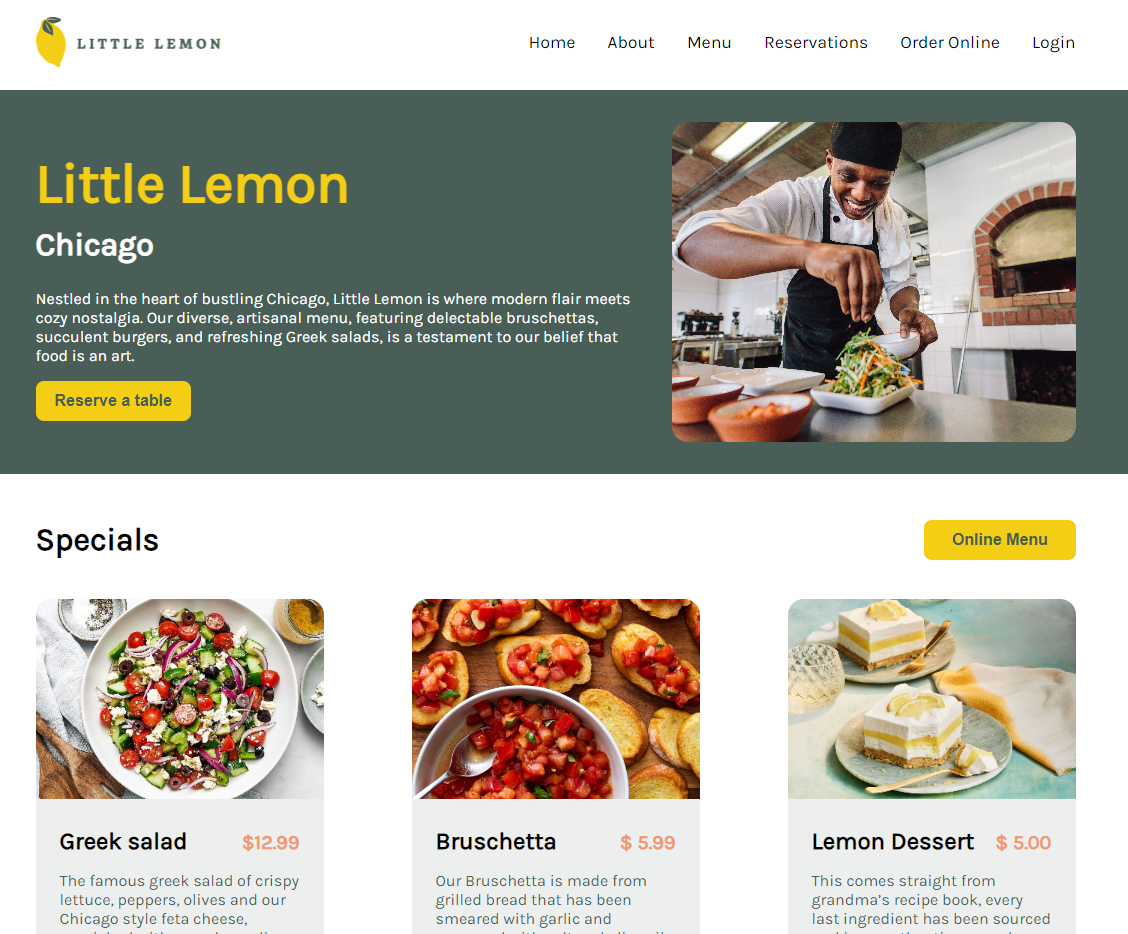
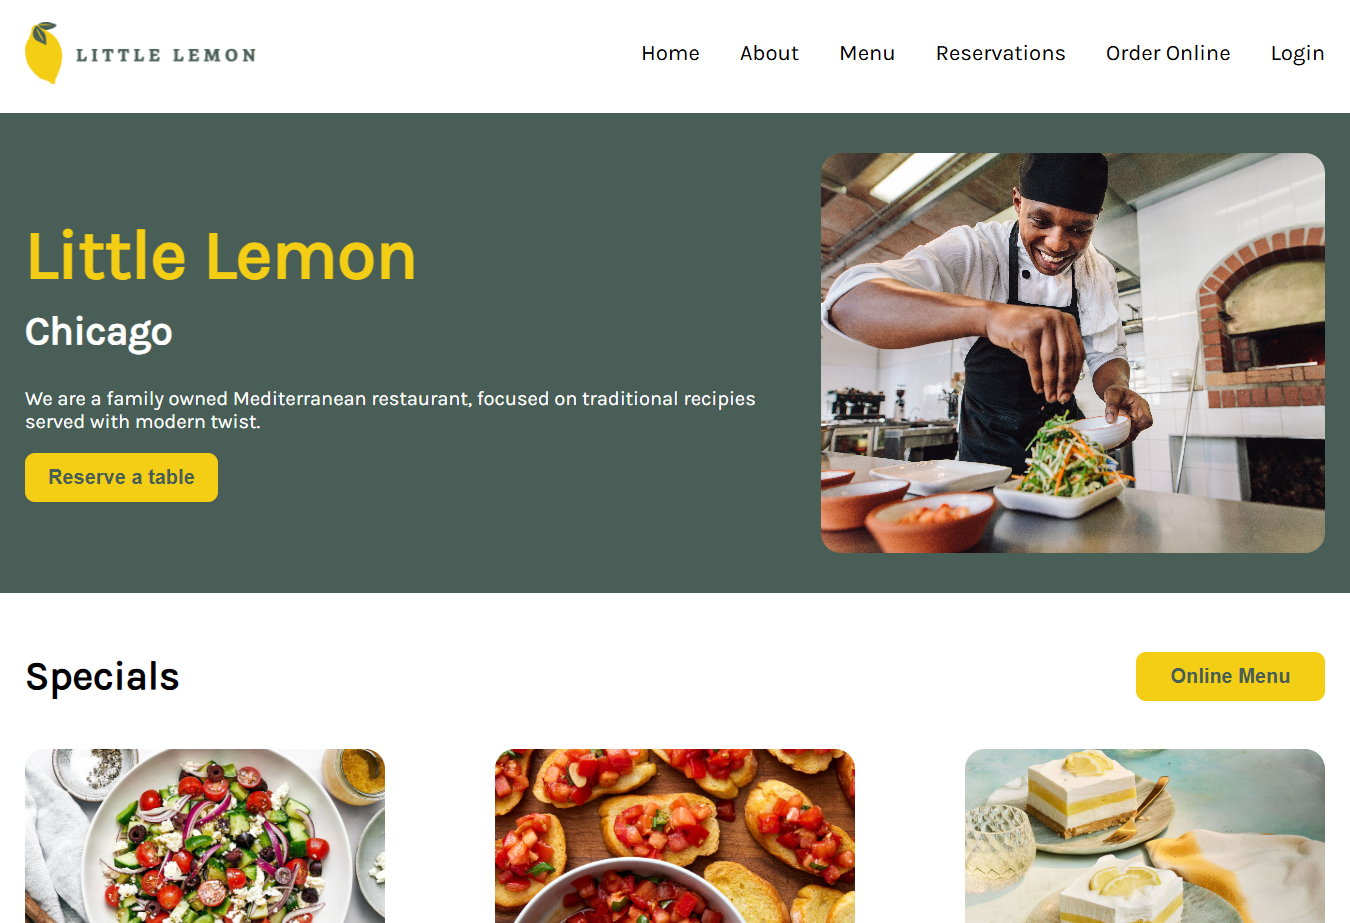
[#FIX] fix

diff --git a/src/pages/Sections/About/About.js b/src/pages/Sections/About/About.js
@@ -10,15 +10,14 @@ const About = () => {
         <h1 className="about-title">Little Lemon</h1>
         <h2 className="about-subtitle">Chicago</h2>
         <p className="about-description">
-          Nestled in the heart of bustling Chicago, Little Lemon is where modern
-          flair meets cozy nostalgia. Our diverse, artisanal menu, featuring
-          delectable bruschettas, succulent burgers, and refreshing Greek
-          salads, is a testament to our belief that food is an art. Crafted by
-          expert chefs with locally-sourced ingredients, our dishes not only
-          delight the palate but nourish the soul. Whether you're seeking a
-          romantic dinner, a family meal, or a relaxed atmosphere with friends,
-          Little Lemon is your ideal culinary destination. Find us in the heart
-          of Chicago for an unforgettable experience.
+          We are a family owned Mediterranean restaurant, focused on traditional
+          recipes served with a modern twist. Located in the heart of Chicago,
+          we bring together the rich flavors and timeless techniques of the
+          Mediterranean with contemporary culinary creativity. Our menu features a
+          variety of carefully crafted dishes — from tender lamb and fresh seafood
+          to vibrant mezze and house-made breads — all prepared using the finest
+          locally sourced ingredients. Each plate reflects our commitment to quality
+          and authenticity, while embracing innovation that excites the palate.
         </p>
       </div>
 

diff --git a/src/pages/Sections/Hero/Hero.js b/src/pages/Sections/Hero/Hero.js
@@ -18,10 +18,11 @@ const Hero = () => {
           <h1 className="title">Little Lemon</h1>
           <h2 className="subtitle">Chicago</h2>
           <p>
-            Nestled in the heart of bustling Chicago, Little Lemon is where
-            modern flair meets cozy nostalgia. Our diverse, artisanal menu,
-            featuring delectable bruschettas, succulent burgers, and refreshing
-            Greek salads, is a testament to our belief that food is an art.
+            We are a family owned
+            Mediterranean restaurant,
+            focused on traditional
+            recipies served with modern
+            twist.
           </p>
           <Button title={"Reserve a table"} onClick={onClickReserve} />
         </div>

diff --git a/public/index.html b/public/index.html
@@ -11,8 +11,8 @@
   <meta property="og:description" content="We are a family restaurant" />
   <meta property="og:type" content="website" />
   <meta property="og:site_name" content="Little Lemon" />
-  <meta property="og:url" content="" />
-  <meta property="og:image" content="" />
+  <meta property="og:url" content="https://little-lemon-app-ten.vercel.app" />
+  <meta property="og:image" content="https://little-lemon-app-ten.vercel.app" />
   <link rel="manifest" href="%PUBLIC_URL%/manifest.json" />
   <title>Little Lemon</title>
   <link rel="stylesheet" href="https://fonts.googleapis.com/css?family=Karla" />

diff --git a/src/pages/Sections/UnderConstruction/UnderConstruction.js b/src/pages/Sections/UnderConstruction/UnderConstruction.js
@@ -4,7 +4,7 @@ import "./UnderConstruction.css";
 const UnderConstruction = () => {
   return (
     <div className="container" data-testid="under-construction">
-      <h1 className="construction-title">Under Construction</h1>
+      <h1 className="construction-title">Currently not available</h1>
     </div>
   );
 };

diff --git a/README.md b/README.md
@@ -7,7 +7,7 @@ You can see a preview of the website here:
 
 ## Live Preview
 
-It is possible to test the live versione of the version via this link: [View Live Demo] (to be added)
+It is possible to test the live versione of the version via this link: [View Live Demo](https://little-lemon-app-ten.vercel.app)
 
 ## Available Scripts
 
